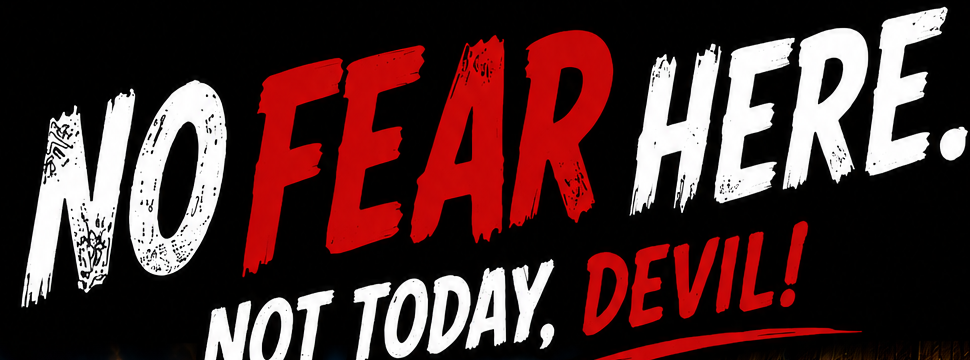
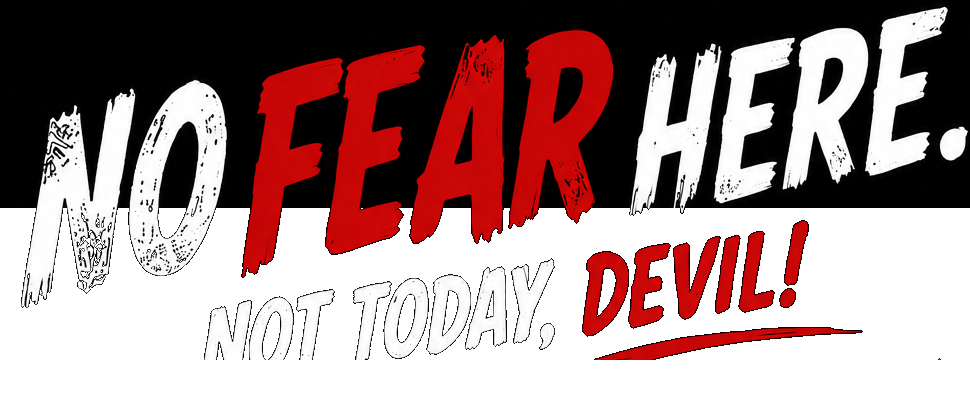
Add files via upload

diff --git a/index.html b/index.html
@@ -1,4 +1,4 @@
-<!doctype html><html lang="en"><head><meta charset="utf-8"><meta name="viewport" content="width=device-width,initial-scale=1"><title>Home | Dustin Courageous</title><meta name="description" content="Dustin Courageous faith-filled books, gear, gift boxes and the upcoming Adventure Club."><link rel="icon" href="assets/images/dc-shield.jpeg"><link rel="stylesheet" href="assets/css/styles.css?v=20260731-mobile-overlap-v11"></head><body><header class="site-header"><div class="container nav">
+<!doctype html><html lang="en"><head><meta charset="utf-8"><meta name="viewport" content="width=device-width,initial-scale=1"><title>Home | Dustin Courageous</title><meta name="description" content="Dustin Courageous faith-filled books, gear, gift boxes and the upcoming Adventure Club."><link rel="icon" href="assets/images/dc-shield.jpeg"><link rel="stylesheet" href="assets/css/styles.css?v=20260731-mobile-overlap-v12"></head><body><header class="site-header"><div class="container nav">
       <a class="brand" href="index.html"><img src="assets/images/dc-shield.jpeg" alt="Official Dustin Courageous DC Shield"><span class="brand-copy"><strong>Dustin<br>Courageous</strong><small>Faith. Courage. Victory.</small></span></a>
       <button class="menu-toggle" aria-label="Open navigation">☰</button>
       <nav class="navlinks"><a class="active" href="index.html">Home</a><a class="" href="meet-dustin.html">Meet Dustin</a><a class="" href="books.html">Books</a><a class="" href="gift-box.html">Gift Box</a><a class="" href="gear.html">Gear</a><a class="" href="adventure-club.html">Adventure Club</a><a class="" href="parents.html">Parents & Leaders</a><a class="" href="about.html">About</a></nav>
@@ -8,7 +8,7 @@
 <section class="hero-art hero-desktop"><img src="assets/images/home-hero-approved.jpeg" alt="Dustin Courageous — No Fear Here. Not Today, Devil!" fetchpriority="high"></section>
 <section class="hero-mobile" aria-label="Dustin Courageous mobile hero">
   <div class="mobile-hero-wordmark">
-    <img src="assets/images/mobile-no-fear-wordmark-final.png?v=20260731-final" alt="No Fear Here. Not Today, Devil!" fetchpriority="high">
+    <img src="assets/images/mobile-no-fear-wordmark-final.png?v=20260731-v12" alt="No Fear Here. Not Today, Devil!" fetchpriority="high">
   </div>
   <img class="mobile-hero-scene" src="assets/images/home-hero-mobile-approved.png" alt="Dustin Courageous standing in victory beside the climbing wall with Philippians 4:13" fetchpriority="high">
   <div class="container hero-mobile-copy hero-mobile-bottom">

diff --git a/assets/css/styles.css b/assets/css/styles.css
@@ -57,8 +57,8 @@ button,input,select,textarea{font:inherit}
 .hero-mobile img{display:block;width:100%;height:auto;position:relative;z-index:1}
 .hero-mobile-copy{text-align:center;padding:18px 12px 12px}
 /* Mobile headline uses the approved branded wordmark artwork for an exact desktop-brand match. */
-.mobile-hero-wordmark{position:relative;z-index:30;background:#050505;padding:2px 0 0;margin:0 0 -42px;overflow:visible}
-.mobile-hero-wordmark img{display:block;width:100%;height:auto;position:relative;z-index:31;pointer-events:none}
+.mobile-hero-wordmark{position:relative;z-index:50;background:#050505;padding:2px 0 0;margin:0 0 -78px;overflow:visible;isolation:isolate}
+.mobile-hero-wordmark img{display:block;width:100%;height:auto;position:relative;z-index:51;pointer-events:none}
 .hero-mobile .mobile-hero-scene{display:block;width:100%;height:auto;position:relative;z-index:1;margin-top:0}
 .hero-mobile-bottom{padding:16px 0 4px}
 .hero-mobile-bottom p{margin:0 auto;color:#ddd;max-width:34rem;font-size:1rem}
@@ -198,7 +198,6 @@ textarea{min-height:130px;resize:vertical}
   .hero-desktop{display:none}
   .hero-mobile{display:block}
   .hero-mobile-copy{padding:20px 0 12px}
-  .mobile-hero-wordmark{margin-bottom:0}
   .hero-mobile-bottom{padding:15px 0 2px}
   .hero-mobile-bottom p{font-size:.95rem;line-height:1.45}
   .hero-actions{padding:14px 0 16px}
@@ -211,7 +210,6 @@ textarea{min-height:130px;resize:vertical}
   .page-hero{padding:48px 0}
   .page-hero h1{font-size:2.7rem}
   @media (max-width:430px){
-    .mobile-hero-wordmark{margin-bottom:-34px}
     .hero-mobile .mobile-hero-scene{margin-top:0}
   }
   .roadmap{grid-template-columns:1fr 1fr}
